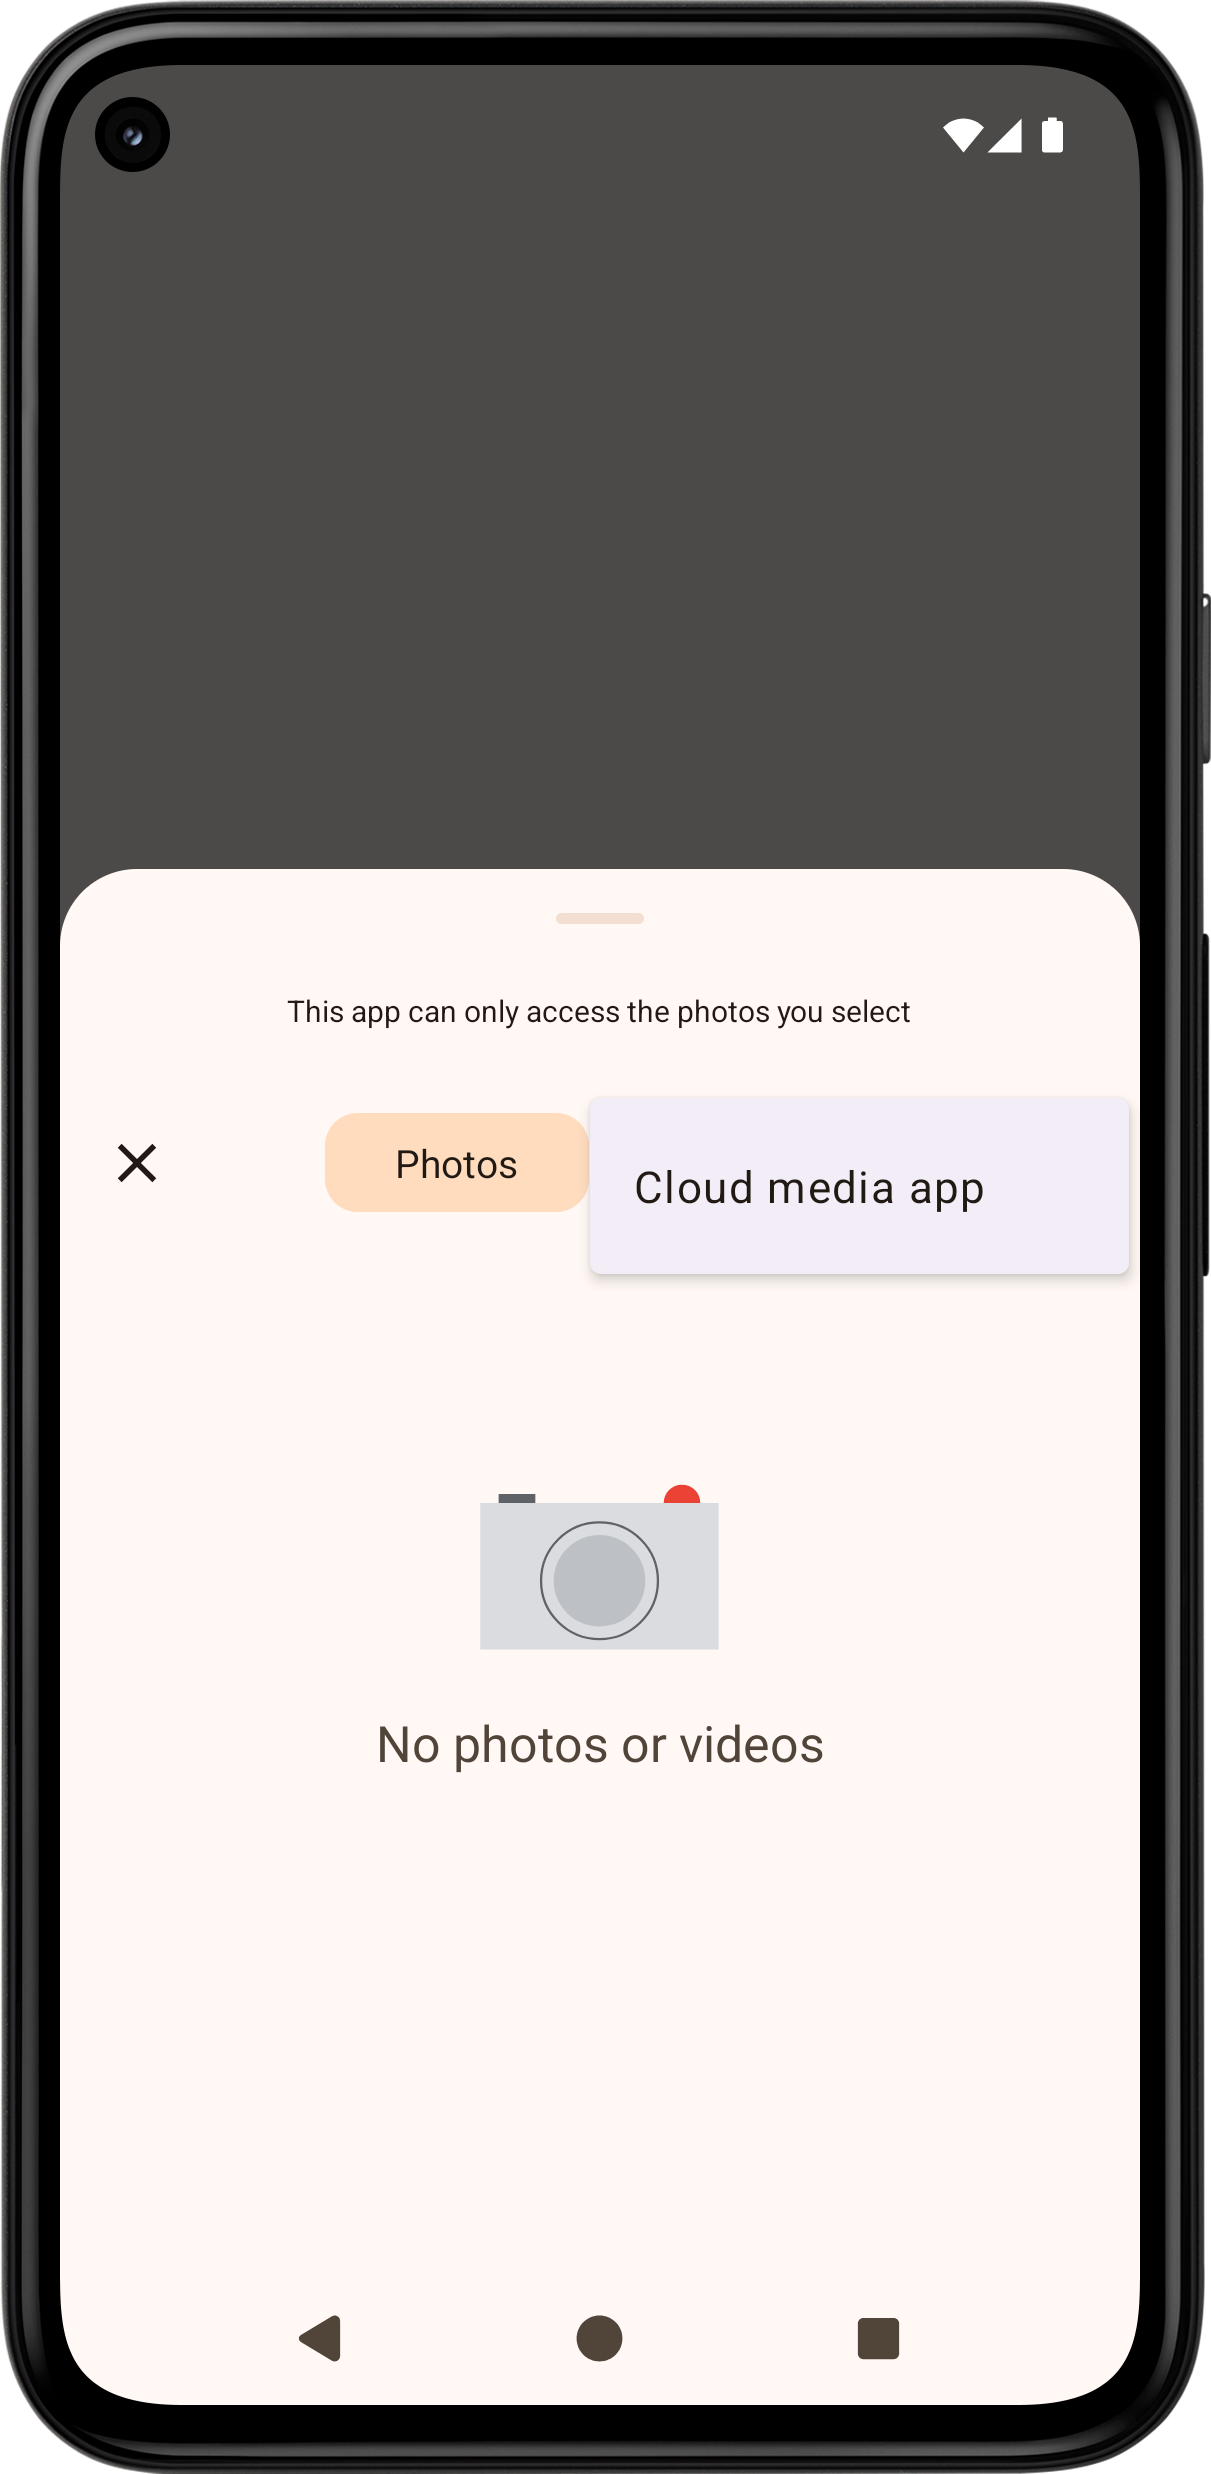
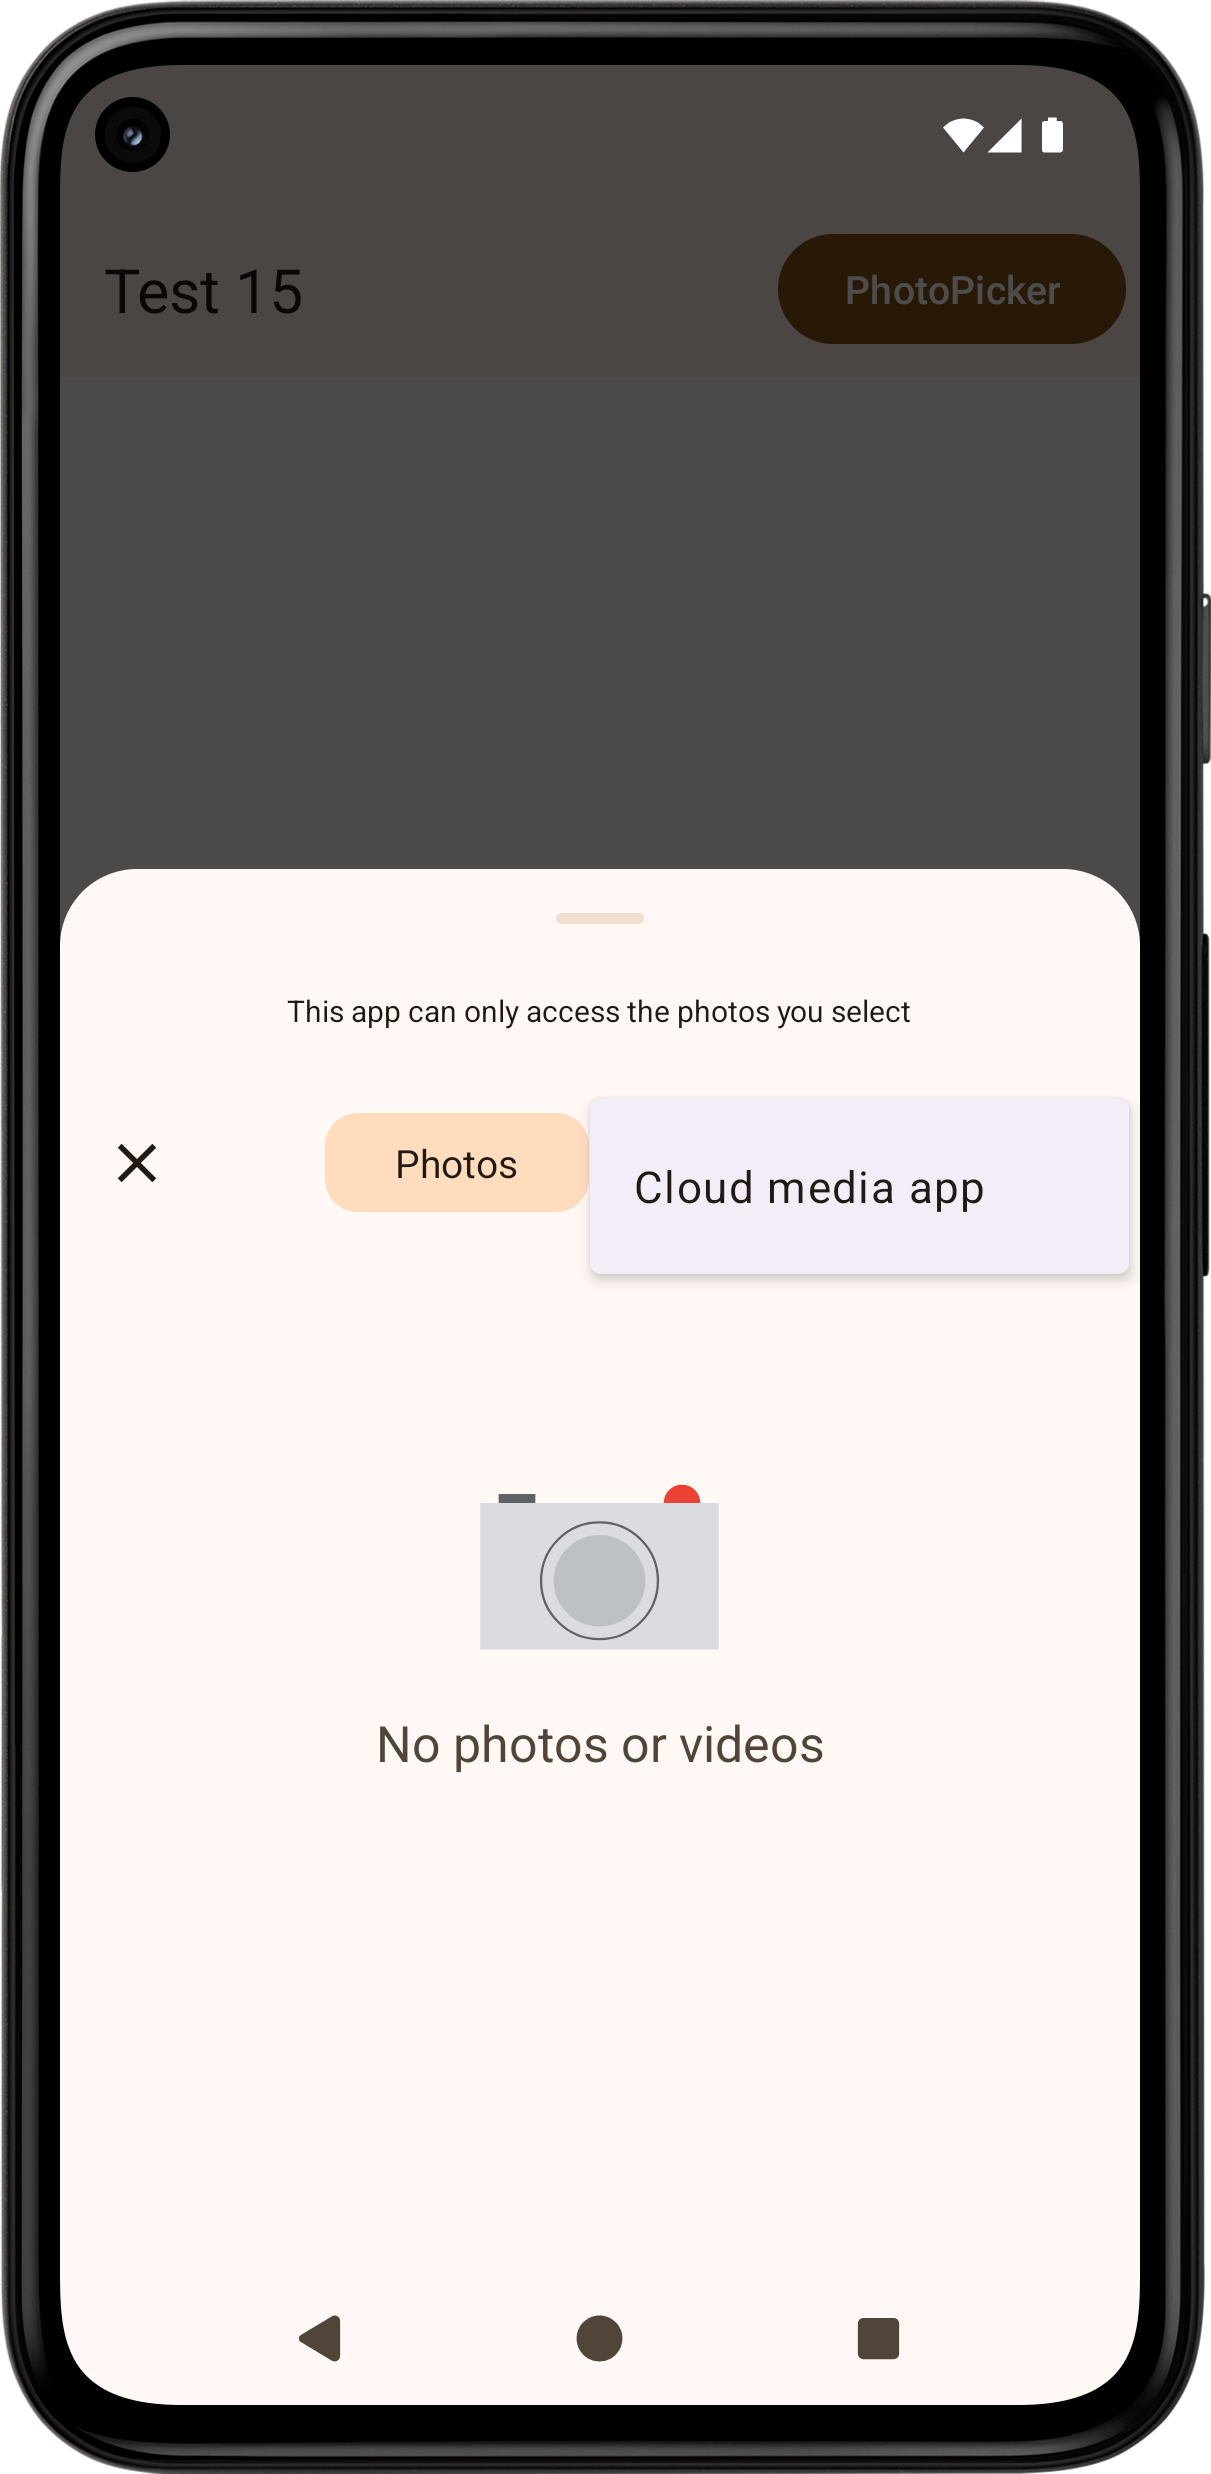
Update

Changed region(s): [[0.6416, 0.0934, 0.9472, 0.1556], [0.0917, 0.0934, 0.2444, 0.1245]]

diff --git a/app/src/main/java/com/github/manabu_nakamura/test/MainActivity.java b/app/src/main/java/com/github/manabu_nakamura/test/MainActivity.java
@@ -1,13 +1,11 @@
 package com.github.manabu_nakamura.test;
 
 import android.os.Bundle;
-import android.view.Menu;
-import android.view.MenuItem;
+import android.view.View;
 
 import androidx.activity.result.ActivityResultLauncher;
 import androidx.activity.result.PickVisualMediaRequest;
 import androidx.activity.result.contract.ActivityResultContracts;
-import androidx.annotation.NonNull;
 import androidx.annotation.Nullable;
 import androidx.appcompat.app.AppCompatActivity;
 
@@ -22,13 +20,7 @@ public class MainActivity extends AppCompatActivity {
         setSupportActionBar(binding.appBar);
     }
 
-    @Override
-    public boolean onCreateOptionsMenu(@NonNull Menu menu) {
-        getMenuInflater().inflate(R.menu.main, menu);
-        return true;
-    }
-
-    public void photoPicker(MenuItem item) {
+    public void photoPicker(View view) {
         activityResultLauncher.launch(new PickVisualMediaRequest.Builder().build());
     }
 

diff --git a/README.md b/README.md
@@ -1,9 +1,9 @@
-[PhotoPicker] The background color of menu ("Cloud media app") is not dynamic color: https://issuetracker.google.com/issues/400894495.
+[PhotoPicker] The background color of menu ("Cloud media app") is not dynamic color: https://issuetracker.google.com/issues/400894495. The background color of button ("Photos") is always dynamic color, regardless of whether the app is dynamic colors or not.
 
 See also: https://github.com/material-components/material-components-android/issues/3969,
 https://github.com/material-components/material-components-android/issues/4139.
 
-<img src="2025-03-05-1.png" width="150"><img src="2025-03-05-2.png" width="150">
+<img src="2025-03-05-1.png" width="150"><img src="2025-03-05-2.png" width="150"><img src="2025-03-05-3.png" width="150">
 
 [PhotoPicker] The scrim color of the photopicker is too dark: https://issuetracker.google.com/issues/403485646, https://github.com/material-components/material-components-android/issues/3635.
 
